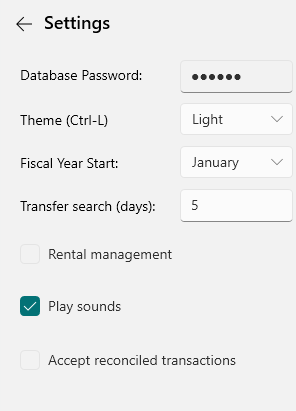
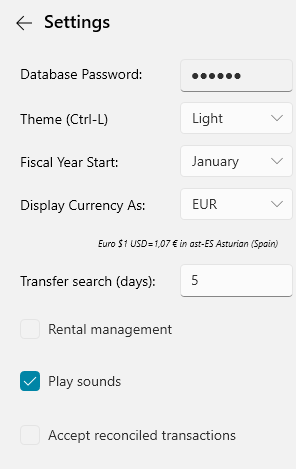
Add documentation of new Default Currency feature.

diff --git a/docs/Basics/Options.md b/docs/Basics/Options.md
@@ -6,12 +6,14 @@ Under the View menu there is an Options… item that will bring up the following
 
 You can use this to:
 
-* Change your database password (if passwords are supported on your database file type).
+* Change your [database password](Setup.md#security) (only visible if passwords are supported on your database file type).
 * Select a new UI Theme (Light or Dark).
-* Change when the fiscal year starts.
+* Change when the fiscal year starts for reports and charts.
+* [Default currency](Currencies.md) for reports
+* Range of dates to search for matching automatic [F12 transfers](Transfers.md).
 * Enable/Disable the Rental Management feature
 * Enable/Disable playing of any sounds.
-* Configure how Ctrl+Space works during account balancing.
+* Configure how Ctrl+Space works during [account balancing](../Accounts/BalancingAccounts.md).
 
 
 See also [Keyboard](Keyboard.md)

diff --git a/docs/Basics/Currencies.md b/docs/Basics/Currencies.md
@@ -1,0 +1,21 @@
+# Currencies
+
+Notice when you [Setup an Account](../Accounts/SetupAccounts.md) you can specify a 3 letter
+Currency code. You can provide details about this currency, including the current exchange rate, using
+the `View/Currencies` view.
+
+![currencies](../Images/Currencies.png)
+
+The Culture Code specified in column 3 is used to format the numbers with the right currency symbol.
+
+These exchange rates then allow MyMoney to normalize all the dollar amounts on the
+[Reports]()../Reports/index.md) to the default currency.  The default currency is 'USD'
+by default, but you can specify a different default using the `View/Options` panel:
+
+![default_currency](../Images/DefaultCurrency.png)
+
+Here we've selected Euro, and now the reports will show totals in Euros:
+
+![euros](../Images/NetworthReportEuro.png)
+
+

diff --git a/docs/index.md b/docs/index.md
@@ -60,7 +60,7 @@ Every numeric field in the application pops up a [calculator](Basics/Calculator.
 
 ![](Images/Home12.png)
 
-Multiple currencies. When you setup an account you can specify the currency used by that account. This is handy if you have overseas accounts. It is then able to handle the fact that transfers between accounts with different currencies will not necessarily have the same amount on either side of those transfers.
+[Multiple currencies](Basics/Currencies.md). When you setup an account you can specify the currency used by that account. This is handy if you have overseas accounts. It is then able to handle the fact that transfers between accounts with different currencies will not necessarily have the same amount on either side of those transfers.
 
 ![](Images/Home13.png)
 

diff --git a/docs/Basics/Navigation.md b/docs/Basics/Navigation.md
@@ -10,8 +10,8 @@ Like any good web browser you can also use ALT-LEFT for Back and and ALT-RIGHT f
 You can pivot to new transaction sets using the following commands on the transaction view context menu:
 
 ### Goto related transaction (F12)
-navigate between each end of a Transfer.  This can also prompt to create a transfer if it finds a matching
-transaction in another account.
+navigate between each end of a Transfer.  This can also prompt to create a transfer if it finds a
+matching transaction in another account.
 
 ### View Transactions by Account (F8)
 show all transactions in the same Account as the selected transaction

diff --git a/docs/Accounts/SetupAccounts.md b/docs/Accounts/SetupAccounts.md
@@ -48,7 +48,7 @@ The **Opening Balance**  is the amount that you need to enter in order to start 
 
 The **Online Account**  field is how you connect your account to [Online Banking](OnlineBanking.md). 
 
-The **Currency**  is optional and is only needed if you plan to have multiple accounts with different currencies.
+The **Currency**  is optional and is only needed if you plan to have multiple accounts with different currencies. See [Currencies](../Basics/Currencies.md).
 
 The **Web Site**  is a URL link to the website for your bank or credit card and the ">>" button will bring this up in your web browser.
 
